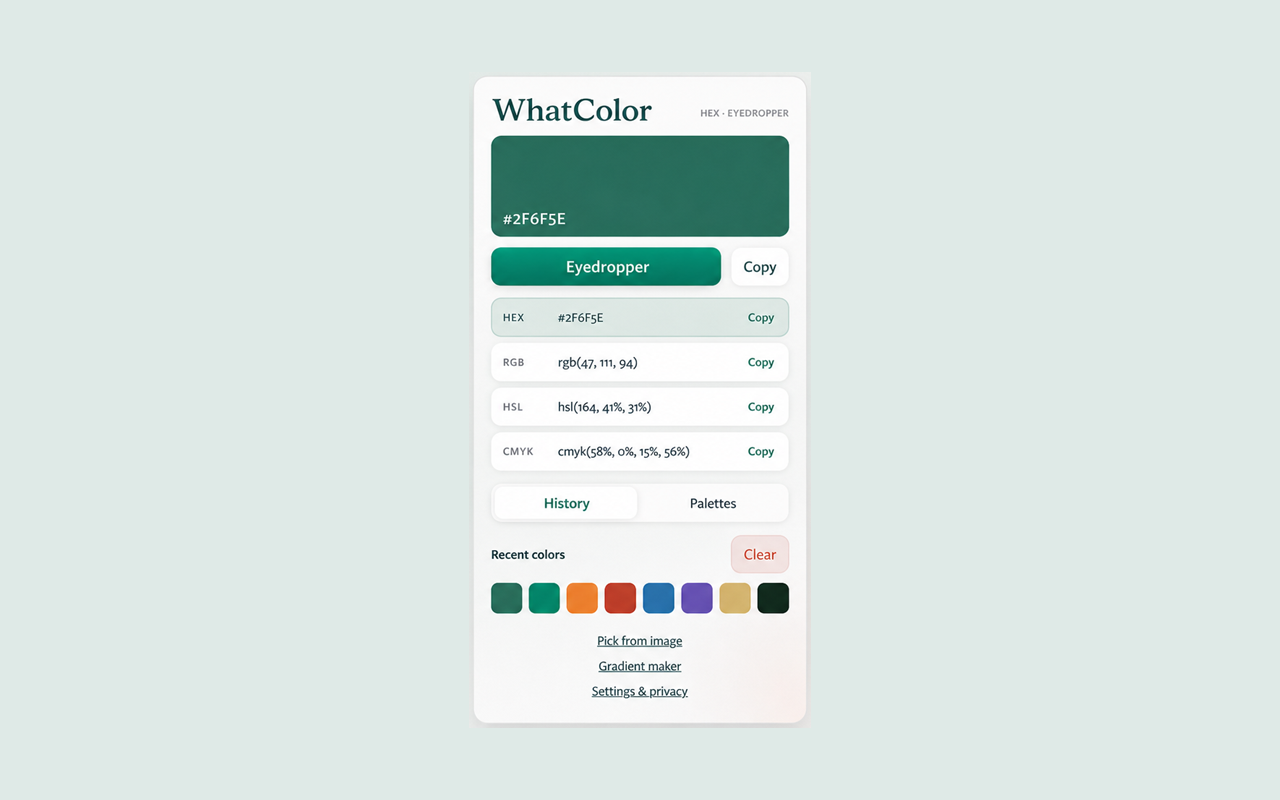
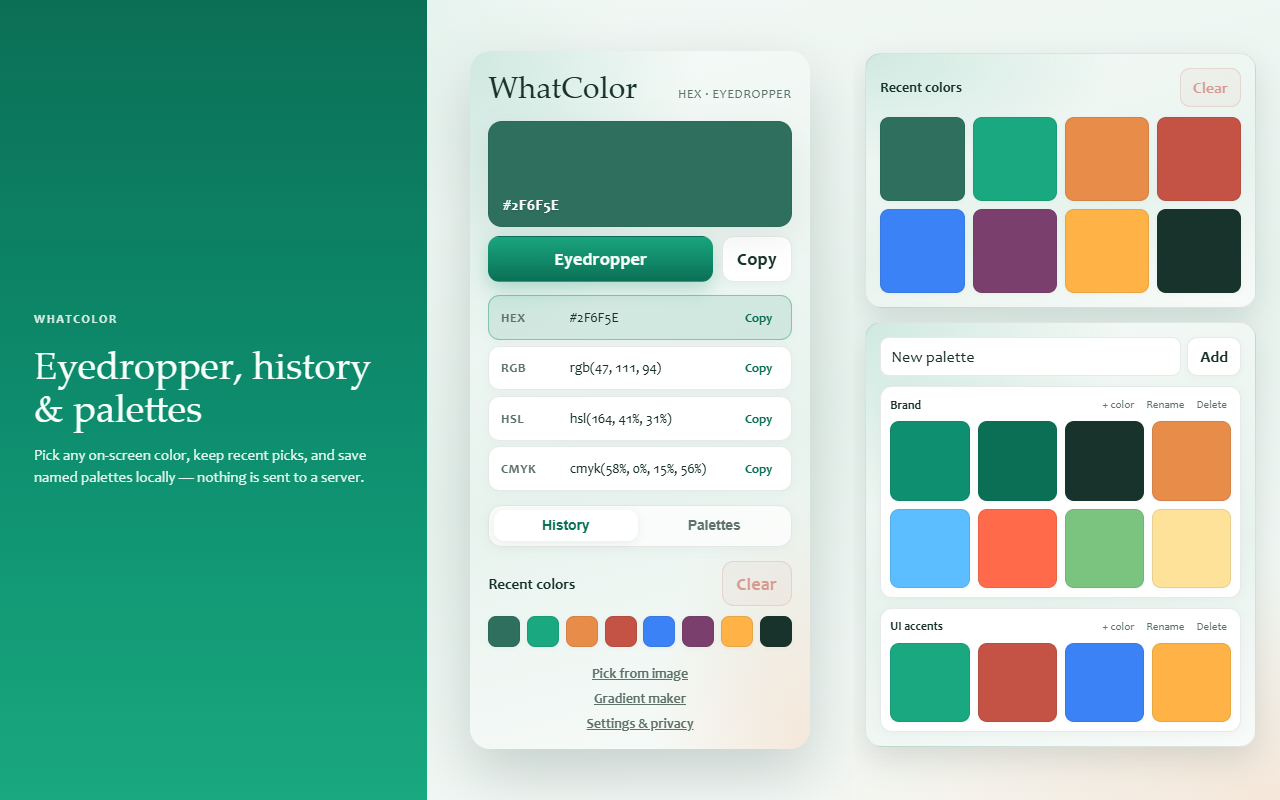
Update store listing and add new screenshots
- Enhanced the store listing by adding detailed descriptions for existing screenshots.
- Introduced three new screenshots showcasing additional features: image picking, gradient making, and privacy-first design.
- Updated the asset files to include the new screenshots in the project.

diff --git a/store/LISTING.md b/store/LISTING.md
@@ -52,8 +52,11 @@ All files are in `store/assets/`:
 | Store icon | `store-icon-128.png` | 128×128 |
 | Small promo tile | `promo-tile-440x280.png` | 440×280 |
 | Marquee promo tile (optional) | `marquee-1400x560.png` | 1400×560 |
-| Screenshot 1 | `screenshot-1-1280x800.png` | 1280×800 |
-| Screenshot 2 | `screenshot-2-1280x800.png` | 1280×800 |
+| Screenshot 1 | `screenshot-1-1280x800.png` | 1280×800 — Eyedropper, history & palettes |
+| Screenshot 2 | `screenshot-2-1280x800.png` | 1280×800 — HEX / RGB / HSL / CMYK |
+| Screenshot 3 | `screenshot-3-1280x800.png` | 1280×800 — Pick from image |
+| Screenshot 4 | `screenshot-4-1280x800.png` | 1280×800 — Gradient maker |
+| Screenshot 5 | `screenshot-5-1280x800.png` | 1280×800 — Privacy-first (zh-CN) |
 
 Extension package icons (inside the ZIP) live at `icons/icon-16.png`, `icons/icon-48.png`, `icons/icon-128.png` (from `src/static/icons/`).
 
